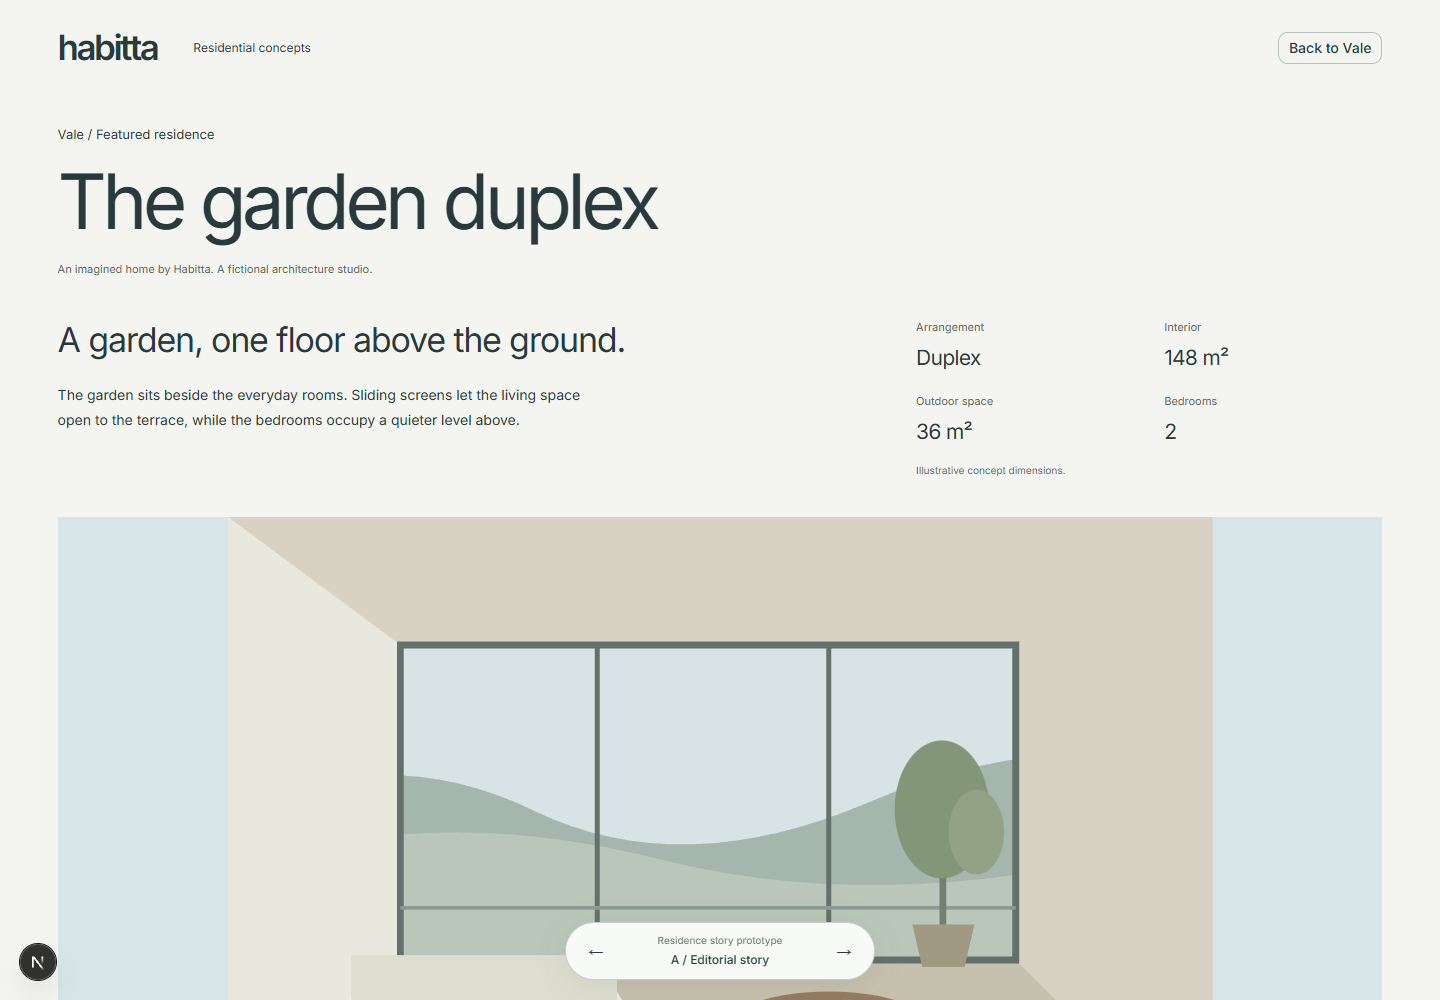
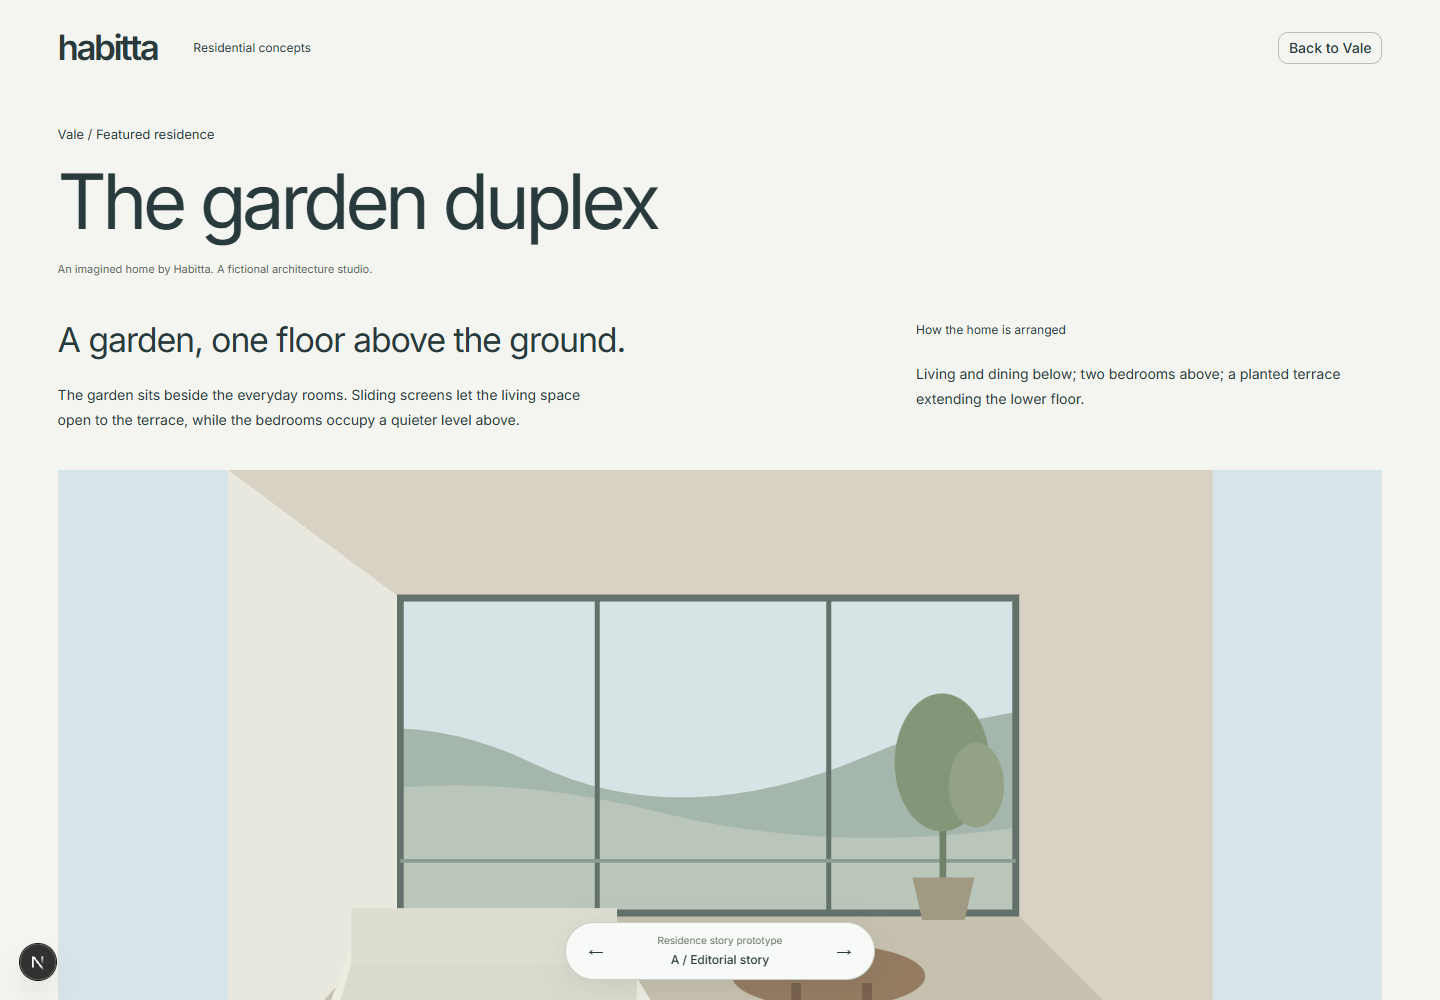
prototype: record selected editorial residence story

diff --git a/app/residence-prototype.tsx b/app/residence-prototype.tsx
@@ -38,10 +38,10 @@ function Contact({ residence }: { residence: string }) {
 
 export function VariantA({ draft, buildingIndex }: ContentProps) {
   return <div className="editorial-story">
-    <div className="editorial-opening"><div><p className="residence-lead">{draft.hook}</p><p>{draft.idea}</p></div><Facts draft={draft} /></div>
+    <div className="editorial-opening"><div><p className="residence-lead">{draft.hook}</p><p>{draft.idea}</p></div><div><p className="residence-kicker">How the home is arranged</p><p>{draft.arrangement}</p></div></div>
     <ImageFrame kind="living" buildingIndex={buildingIndex} caption={draft.rooms[0].title} />
     <div className="editorial-sequence">{draft.rooms.slice(1).map(room => <section key={room.kind}><ImageFrame kind={room.kind} buildingIndex={buildingIndex} caption={room.name} /><div><h2>{room.title}</h2><p>{room.text}</p></div></section>)}</div>
-    <section className="editorial-plan"><div><p className="residence-kicker">How the home is arranged</p><h2>Rooms in relation.</h2><p>{draft.arrangement}</p><details><summary>Concept details & materials</summary><p>{draft.materials.join(", ")}. These surfaces recur across the home and its exterior.</p><ImageFrame kind="material" buildingIndex={buildingIndex} caption="Material relationships" /></details></div><Plan draft={draft} /></section>
+    <section className="editorial-plan"><div><h2>Materials throughout the home.</h2><p>{draft.materials.join(", ")}. These surfaces recur across the home and its exterior.</p><details><summary>Dimensions & diagram</summary><Facts draft={draft} /><Plan draft={draft} /></details></div><ImageFrame kind="material" buildingIndex={buildingIndex} caption="Material relationships" /></section>
     <BuildingContext draft={draft} buildingIndex={buildingIndex} />
     <Contact residence={buildings[buildingIndex].residence} />
   </div>;

diff --git a/docs/prototypes/building-detail-story.md b/docs/prototypes/building-detail-story.md
@@ -2,7 +2,7 @@
 
 Throwaway artifact for [Prototype a building detail story](https://github.com/danielluis07/habitta/issues/5), within [Shape a fictional 3D architecture studio portfolio](https://github.com/danielluis07/habitta/issues/1).
 
-Status: **Awaiting human review. No residence presentation decision has been made.** Keep this experiment on `prototype/building-detail-story`; the map ends at an implementation-ready spec, so none of these variants is promoted to production.
+Status: **A — Editorial story selected**, with arrangement and materials visible, dimensions and the diagram expandable, and optional contact after the story. The resolution on [Prototype a building detail story](https://github.com/danielluis07/habitta/issues/5) is the canonical decision. Keep this experiment on `prototype/building-detail-story`; the map ends at an implementation-ready spec, so none of these variants is promoted to production.
 
 ## Run
 
@@ -25,8 +25,8 @@ After choosing a building and explicitly opening its featured residence, what sh
 Retain the discovery prototype's subject-specific palette: sky `#d7e4e8`, chalk `#f4f5f0`, foliage `#75826f`, stone `#c7c8bc`, graphite `#283a3c`. Inter carries the studio identity and readable body text. Large, left-aligned residence names establish the home; architectural diagrams occupy the main visual space. Each option proposes a different reading behavior, rather than recoloring the same layout.
 
 ```text
-A: identity -> idea + facts -> living -> outdoor -> quiet rooms
-   -> arrangement + optional materials -> building -> optional contact
+A: identity -> idea + arrangement -> living -> outdoor -> quiet rooms
+   -> materials + expandable dimensions/diagram -> building -> optional contact
 
 B: identity -> large image + changing caption | expandable details
    -> previous/next through five images      | optional contact
@@ -41,7 +41,7 @@ The prototype remains in the existing home/story flow. Its shared title and navi
 
 | Variant | Primary affordance | Information depth | Tradeoff to judge |
 | --- | --- | --- | --- |
-| A: Editorial story | Scroll through an authored sequence | Idea and key facts are visible first; images and short room stories follow; material details expand | Clear narrative and building relationship, but longer page |
+| A: Editorial story (selected) | Scroll through an authored sequence | Idea and arrangement are visible first; images and short room stories follow; materials stay visible and dimensions/diagram expand | Clear narrative and building relationship, but longer page |
 | B: Image gallery | Previous/next through five images | Captions change with the image; design idea, dimensions/arrangement, and building context expand in the side column | Most image-led; important context can be missed if visitors skip details |
 | C: Spatial notebook | Select a labeled space in a schematic plan | Idea and facts stay beside the diagram; each selection changes the room image and description | Explains spatial relationships directly, but asks visitors to understand a diagram |
 
@@ -49,14 +49,14 @@ On narrow screens, columns become a reading sequence. The gallery image precedes
 
 ## Proposed content and image roles
 
-These are **proposals for review**, not approved requirements.
+The selected variant demonstrates the content roles below. Specific building names, numerical facts, materials, and geometry remain illustrative; see the issue resolution for the decision boundaries. The earlier options remain available for comparison.
 
 - Identity: building name, featured residence name, and explicit imagined-concept status.
 - Design idea: one short introduction tied to how the home is arranged.
-- Facts: arrangement, interior area, outdoor area, and bedroom count. All numerical examples are fictional placeholders, visibly identified as illustrative.
+- Facts: arrangement is visible in the introduction; interior area, outdoor area, and bedroom count sit within the collapsed dimensions/diagram disclosure. All numerical examples are fictional placeholders, visibly identified as illustrative.
 - Room stories: shared living space, outdoor space, and quiet rooms, each with an image role and a short explanation.
-- Arrangement: a schematic relationship diagram. Vale's upper level is marked; the diagram does not claim to be an architectural floor plan.
-- Materials: a small named palette with an optional closer view.
+- Arrangement: a visible plain-language description, with a schematic relationship diagram available on expansion. Vale's upper level is marked; the diagram does not claim to be an architectural floor plan.
+- Materials: a visible named palette and material study.
 - Building context: exterior study, the home's approximate position, and a short explanation of how it belongs within the structure.
 - Contact: an optional **Contact Habitta** disclosure. A shows it after the full story, B alongside the gallery, C after the plan-led content and building context. This demonstrates placement only; no form or message is sent and no real contact address is invented.
 
@@ -64,13 +64,9 @@ Proposed image inventory per home: living view (also the editorial opening image
 
 The SVG diagrams are intentionally rough, locally authored code assets. They stand in for image roles and proportions; they are not AI-generated photos or final building geometry. Room diagrams share a simple composition across homes, with palette/context cues, and do not validate geometric correspondence. Final visual consistency rules belong to the remaining media and scene decisions.
 
-## Review
+## Review outcome
 
-1. Choose A, B, C, or a specific combination. Does the visitor need an authored story, a gallery, or an explanation of the spatial arrangement?
-2. Decide whether concept areas, bedroom counts, and a diagram should be visible, expandable, or omitted. The draft numbers themselves are not collection decisions.
-3. Judge the optional contact placement, and whether the proposed room/image coverage is enough to understand the home.
-
-Suggested starting point: A, because it gives the residence a short narrative and explicitly reconnects it to the building. The user may prefer the gallery's pace or the notebook's spatial focus.
+The user selected A and answered the detail-depth and contact-placement questions. Variant A now reflects those answers. The original comparison is preserved at commit `2089534`; B and C remain as throwaway alternatives. The full decision belongs to the issue's resolution comment rather than this artifact.
 
 ## Captured views
 
@@ -86,6 +82,8 @@ Suggested starting point: A, because it gives the residence a short narrative an
 Lint, TypeScript, and diff whitespace checks passed. A temporary Chromium smoke check exercised all variants, URL and keyboard switching, one retained scene canvas, gallery controls, room selection, contact expansion, focus on opening and return, Escape, both return paths, and direct links to all three provisional residences. Each variant fit a 390px viewport without horizontal overflow. No browser page errors were reported. The existing scene emits a Three.js soft-shadow deprecation warning; this content prototype does not settle the production renderer.
 
 Screenshots were visually inspected on desktop and mobile. An initial return-focus timing issue and an unintended filled line in a schematic were corrected before the passing check. These are prototype checks, not production accessibility, device-performance, or geometric-consistency certification.
+
+After the user's selection, lint and TypeScript were rerun. A focused desktop/mobile browser check verified that arrangement and materials remain visible, dimensions and the diagram start collapsed and expand together, and contact remains after the story. The selected variant's desktop and mobile screenshots were refreshed.
 
 ## References consulted
 
